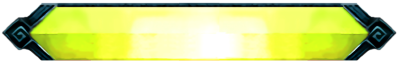
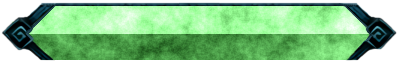
Better 'buttons' & title
Buttons were too ugly, had to change.

diff --git a/cik.css b/cik.css
@@ -71,13 +71,15 @@ body{
     height: 64px;
     line-height: 64px;
     text-align: center;
-    font-size: 34px;
+    font-size: 32px;
     font-weight: 500;
 }
 
 .outputHeader{
     font-family: 'Trajan Pro 3';
-    margin-top: 40px
+    margin-top: 40px;
+    color: orange;
+    /*text-shadow: 1px 0 0 darkorange, 0 -1px 0 darkorange;*/
 }
 
 .outputSummary, .monsterInput{
@@ -86,21 +88,27 @@ body{
 
 .outputSummary{
     margin-top: 20px;
-    color: black;
 }
 .outputSummary.maybe{
     background-image: url("resources/orange_box.png");
     background-size: 100% 100%;
+    color: black;
+    font-weight: 500;
+    /*text-shadow: 1px 0 0 #000, 0 -1px 0 #000, 0 1px 0 #000, -1px 0 0 #000;*/
 }
 
 .outputSummary.yes{
     background-image: url("resources/green_box.png");
     background-size: 100% 100%;
+    color: black;
+    text-shadow: 1px 0 0 #fff, 0 -1px 0 #000, 0 1px 0 #fff, -1px 0 0 #000;
 }
 
 .outputSummary.no{
     background-image: url("resources/red_box.png");
     background-size: 100% 100%;
+    color: #fff;
+    text-shadow: 1px 0 0 #000, 0 -1px 0 #000, 0 1px 0 #000, -1px 0 0 #000;
 }
 
 .outputSlayerContainer{

diff --git a/index.html b/index.html
@@ -4,7 +4,7 @@
     <meta charset="UTF-8">
     <meta http-equiv="X-UA-Compatible" content="IE=edge">
     <meta name="viewport" content="width=device-width, initial-scale=1.0">
-    <title>Document</title>
+    <title>Can I kill...</title>
     <link rel="stylesheet" href="cik.css">
     <link rel="stylesheet" href="//code.jquery.com/ui/1.12.1/themes/base/jquery-ui.css">
     <script src="https://code.jquery.com/jquery-1.12.4.js"></script>
